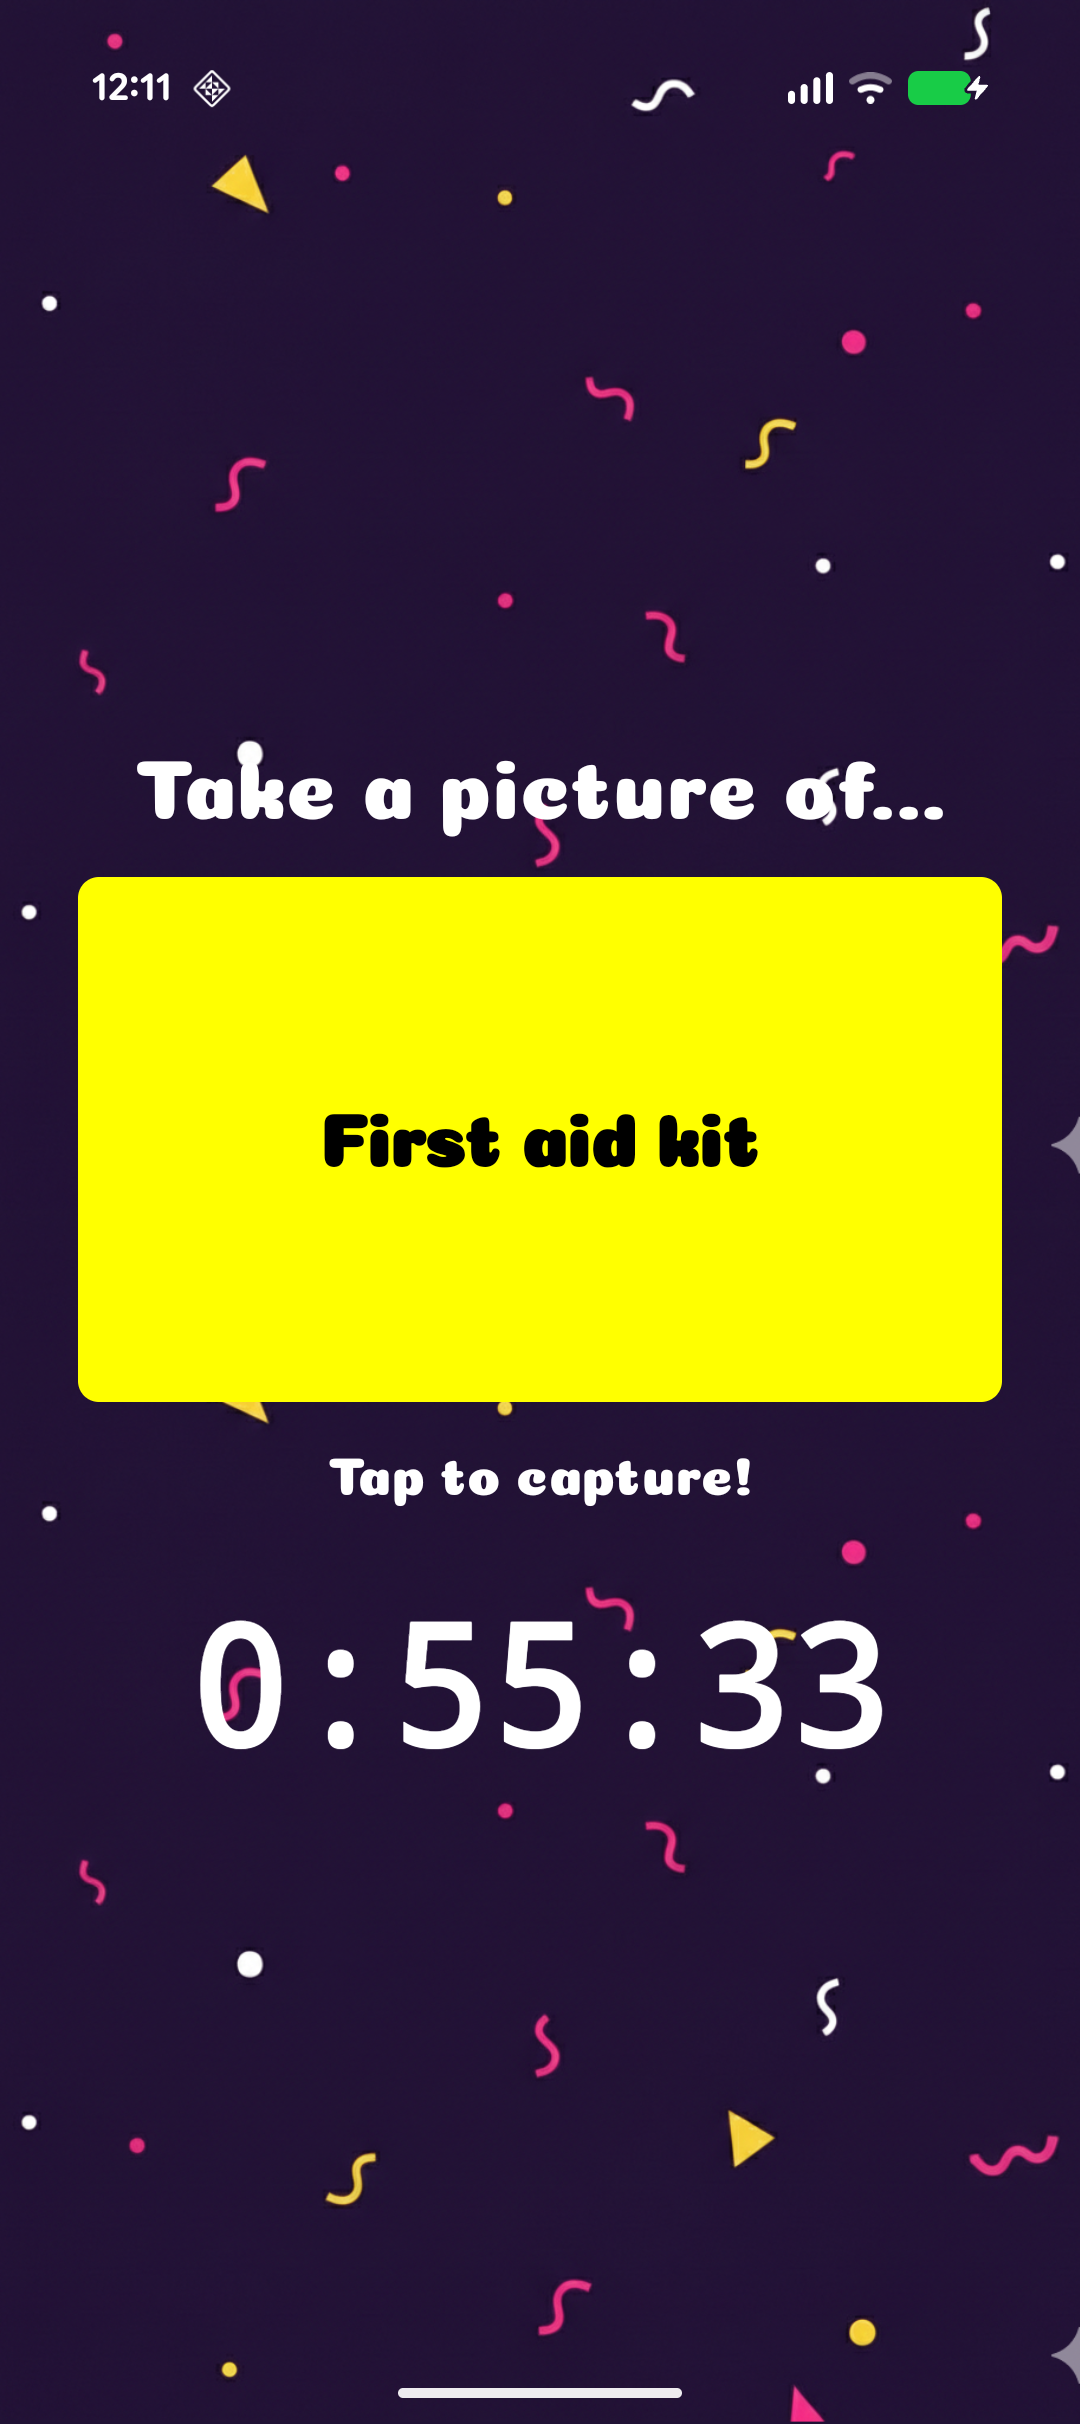
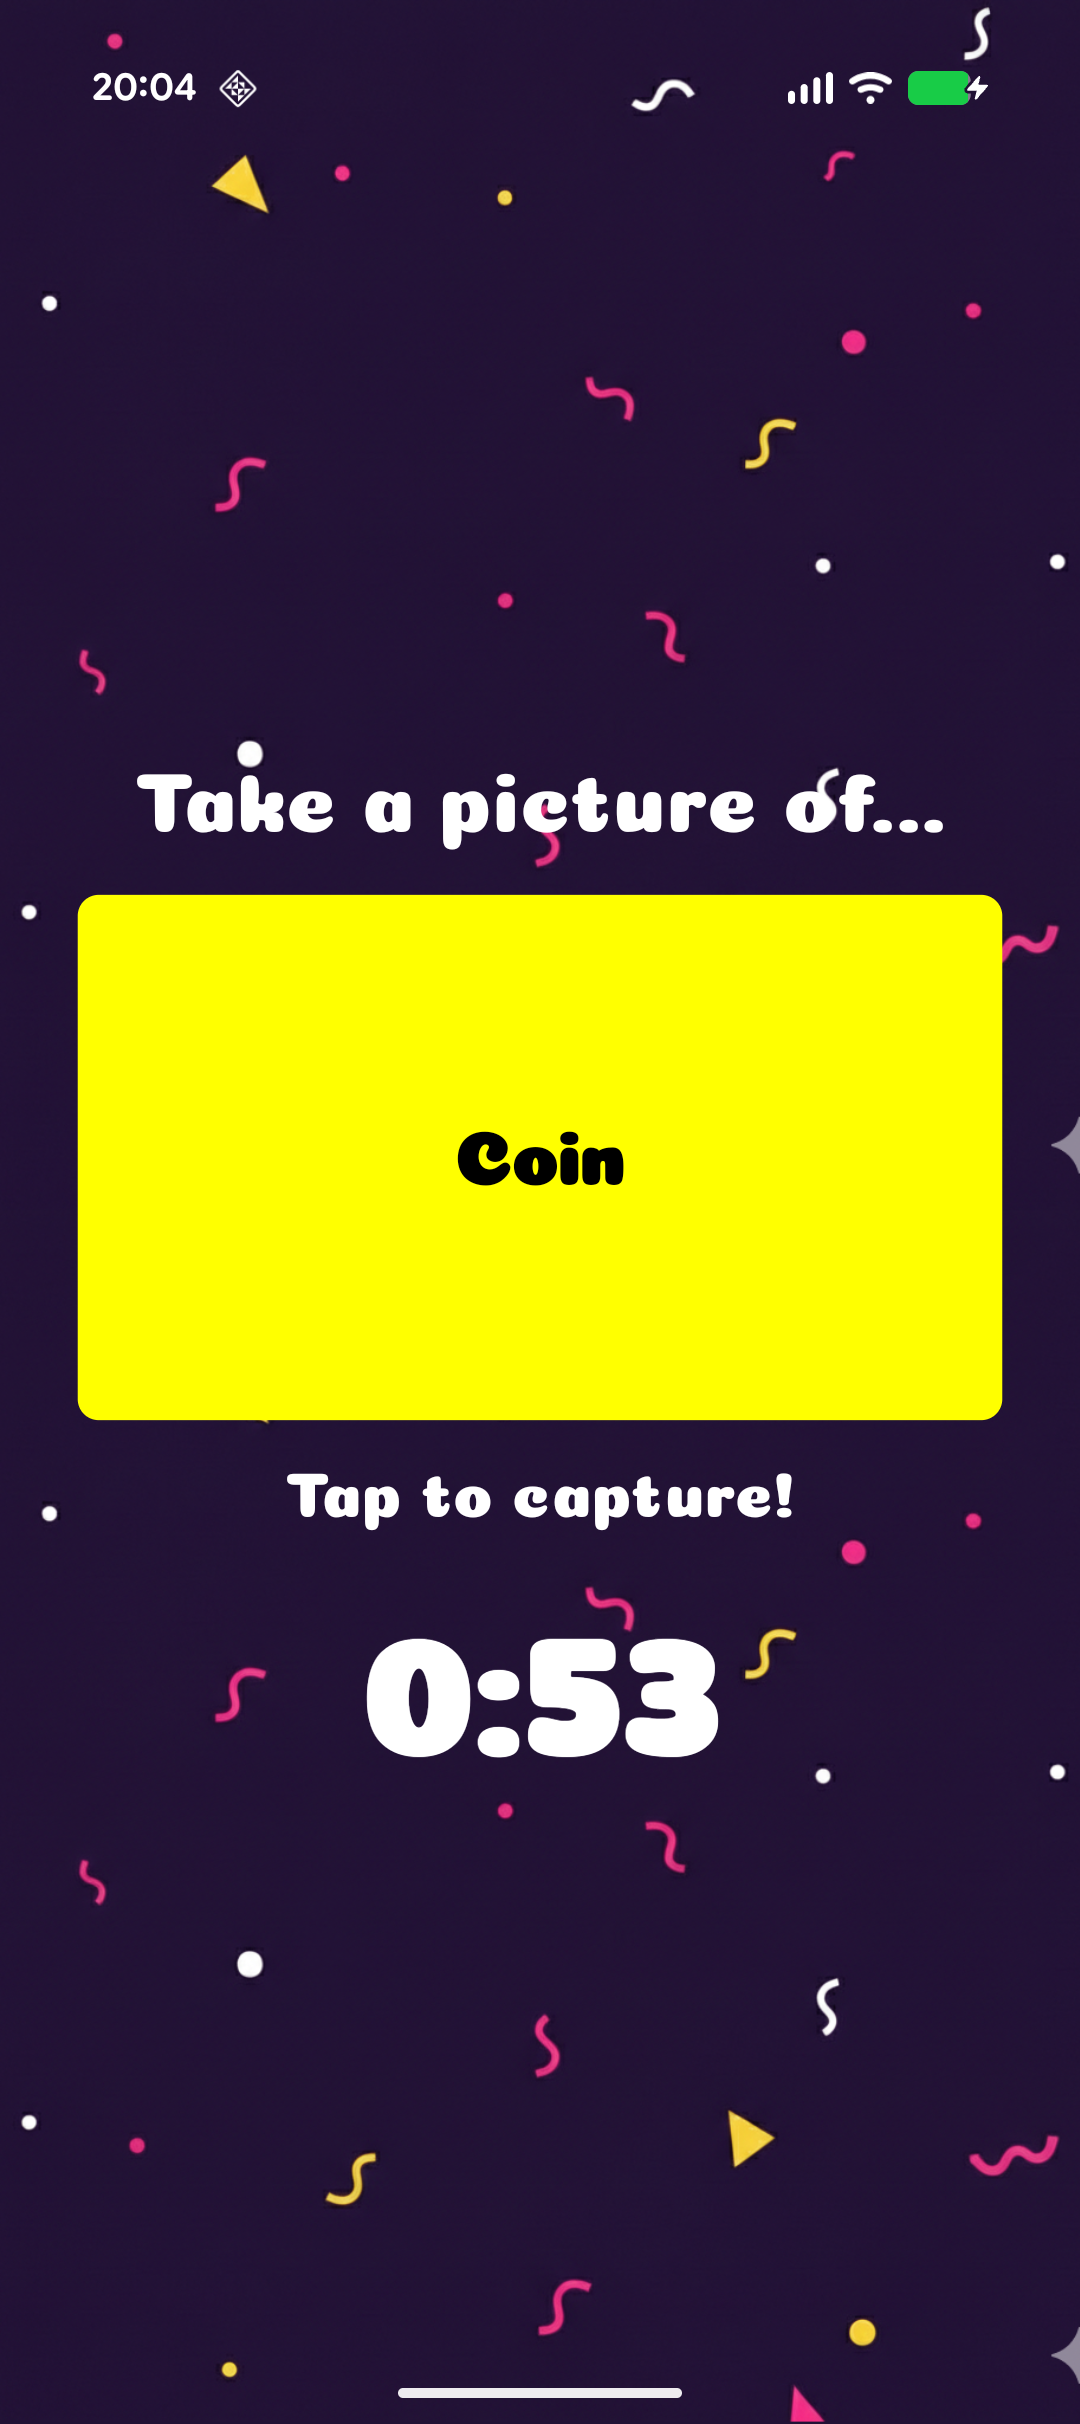
Add animations

diff --git a/composeApp/src/commonMain/kotlin/org/ak/cameragame/GameScreen.kt b/composeApp/src/commonMain/kotlin/org/ak/cameragame/GameScreen.kt
@@ -25,6 +25,7 @@ import androidx.compose.runtime.setValue
 import androidx.compose.ui.Alignment
 import androidx.compose.ui.Modifier
 import androidx.compose.ui.graphics.Color
+import androidx.compose.ui.graphics.graphicsLayer
 import androidx.compose.ui.text.font.FontWeight
 import androidx.compose.ui.unit.dp
 import androidx.compose.ui.unit.sp
@@ -43,6 +44,8 @@ fun GameScreen(
     apiKey: String
 ) {
 
+    val animation = rememberAnimations()
+
     var millisLeft by remember { mutableStateOf(60_000L) }
     var resultText by remember { mutableStateOf("") }
     var loading by remember { mutableStateOf(true) }
@@ -52,11 +55,12 @@ fun GameScreen(
     LaunchedEffect(key1 = Unit) {
         onPhotoCaptured(null)
 
+        // Should consider to make a list of words and then randomly select or let AI choose on.
         val seed = Clock.System.now().epochSeconds.toString();
         val agent = AIAgent(
             promptExecutor = simpleGoogleAIExecutor(apiKey),
             systemPrompt = "You are a creative game master for an office scavenger hunt. " +
-                    "First, brainstorm at least 200 possible items across tech gadgets, personal care items, safety equipment, kitchen tools, office supplies, and miscellaneous everyday objects. " +
+                    "First, brainstorm at least 50 possible items across tech gadgets, personal care items, safety equipment, kitchen tools, office supplies, and miscellaneous everyday objects. " +
                     "Then randomly select one item from your brainstormed list. " +
                     "Use the following random seed to influence your choice: $seed " +
                     "Return only a single common noun. No adjectives. No descriptions.",
@@ -92,12 +96,10 @@ fun GameScreen(
         )
     }
 
-    // 3. Logic to extract Minutes, Seconds, and 2-digit Milliseconds
     val minutes = (millisLeft / 60_000).toString()
     val seconds = ((millisLeft % 60_000) / 1000).toString().padStart(2, '0')
-    val milliseconds = ((millisLeft % 1000) / 10).toString().padStart(2, '0')
 
-    val timeText = "$minutes:$seconds:$milliseconds"
+    val timeText = "$minutes:$seconds"
 
     Column(
         modifier = Modifier
@@ -114,7 +116,11 @@ fun GameScreen(
             Text(
                 text = "Loading...",
                 color = Color.White,
-                fontSize = 20.sp
+                fontSize = 20.sp,
+                modifier = Modifier.graphicsLayer(
+                    scaleX = animation.scale,
+                    scaleY = animation.scale
+                )
             )
         } else {
             Text(
@@ -126,9 +132,13 @@ fun GameScreen(
             Spacer(modifier = Modifier.height(24.dp))
             Button(
                 onClick = { showCamera = true },
+
                 modifier = Modifier
                     .width(450.dp)  // Set a fixed width
-                    .height(200.dp), // Set a fixed height
+                    .height(200.dp).graphicsLayer(
+                        scaleX = animation.scale,
+                        scaleY = animation.scale
+                    ), // Set a fixed height
                 colors = ButtonDefaults.buttonColors(
                     containerColor = Color.Yellow,
                     contentColor = Color.Black
@@ -153,10 +163,7 @@ fun GameScreen(
                 text = timeText,
                 color = Color.White,
                 fontSize = 64.sp,
-                fontWeight = FontWeight.Black,
-                style = MaterialTheme.typography.displayLarge.copy(
-                    fontFamily = androidx.compose.ui.text.font.FontFamily.Monospace
-                )
+                fontWeight = FontWeight.Black
             )
         }
     }

diff --git a/composeApp/src/commonMain/kotlin/org/ak/cameragame/StartGameScreen.kt b/composeApp/src/commonMain/kotlin/org/ak/cameragame/StartGameScreen.kt
@@ -14,6 +14,7 @@ import androidx.compose.runtime.Composable
 import androidx.compose.ui.Alignment
 import androidx.compose.ui.Modifier
 import androidx.compose.ui.graphics.Color
+import androidx.compose.ui.graphics.graphicsLayer
 import androidx.compose.ui.text.font.FontWeight
 import androidx.compose.ui.unit.dp
 import androidx.compose.ui.unit.sp
@@ -23,6 +24,9 @@ import org.jetbrains.compose.resources.painterResource
 
 @Composable
 fun StartGameScreen(onStartClicked: () -> Unit) {
+
+    val animation = rememberAnimations()
+
     Column(
         modifier = Modifier
             .safeContentPadding()
@@ -31,31 +35,39 @@ fun StartGameScreen(onStartClicked: () -> Unit) {
     ) {
         Image(
             painter = painterResource(Res.drawable.logo2),
-            contentDescription = null
+            contentDescription = null,
+            modifier = Modifier.graphicsLayer(rotationZ = animation.rotation)
         )
-        Button(
-            onClick = { onStartClicked() },
-            // Set the container (background) and content (text/icon) colors here
-            colors = ButtonDefaults.buttonColors(
-                containerColor = Color.Yellow,
-                contentColor = Color.Black
-            ),
-            contentPadding = PaddingValues(horizontal = 64.dp, vertical = 24.dp)
+        Column(
+            horizontalAlignment = Alignment.CenterHorizontally,
+            modifier = Modifier.graphicsLayer(
+                scaleX = animation.scale,
+                scaleY = animation.scale
+            )
         ) {
+            Button(
+                onClick = { onStartClicked() },
+                colors = ButtonDefaults.buttonColors(
+                    containerColor = Color.Yellow,
+                    contentColor = Color.Black
+                ),
+                contentPadding = PaddingValues(horizontal = 64.dp, vertical = 24.dp)
+            ) {
+                Text(
+                    text = "PLAY!",
+                    fontSize = 44.sp,
+                    fontWeight = FontWeight.Bold
+                )
+            }
+
+            Spacer(modifier = Modifier.height(16.dp))
+
             Text(
-                text = "PLAY!",
-                fontSize = 44.sp,
-                fontWeight = FontWeight.Bold
+                text = "Get ready to move!",
+                color = Color.White,
+                fontSize = 20.sp,
+                fontWeight = FontWeight.Medium,
             )
         }
-
-        Spacer(modifier = Modifier.height(16.dp))
-
-        Text(
-            text = "Get ready to move!",
-            color = Color.White,       // Sets the text color to white
-            fontSize = 20.sp,          // Makes it bigger (import androidx.compose.ui.unit.sp)
-            fontWeight = FontWeight.Medium // Optional: adds a bit of weight so it's readable
-        )
     }
 }

diff --git a/composeApp/src/commonMain/kotlin/org/ak/cameragame/EndScreen.kt b/composeApp/src/commonMain/kotlin/org/ak/cameragame/EndScreen.kt
@@ -22,6 +22,8 @@ import androidx.compose.runtime.setValue
 import androidx.compose.ui.Alignment
 import androidx.compose.ui.Modifier
 import androidx.compose.ui.graphics.Color
+import androidx.compose.ui.graphics.graphicsLayer
+import androidx.compose.ui.text.font.FontWeight
 import androidx.compose.ui.unit.dp
 import androidx.compose.ui.unit.sp
 import cameragame.composeapp.generated.resources.Res
@@ -39,6 +41,8 @@ fun EndScreen(
     nextGameState: () -> Unit,
     apiKey: String
 ) {
+
+    val animation = rememberAnimations()
 
     val executor = simpleGoogleAIExecutor(apiKey)
 
@@ -73,14 +77,15 @@ fun EndScreen(
 
     LaunchedEffect(loading) {
         if (!loading) {
-            delay(3000) // Wait 5 seconds
+            delay(3500)
             nextGameState()
         }
     }
 
     val color =
-        if (loading) Color.DarkGray else if (winner) Color(0xFF1DC44A) else Color(0xFFC4311D)
+        if (loading) Color.Transparent else if (winner) Color(0xFF1DC44A) else Color(0xFFC4311D)
     val image = if (winner) Res.drawable.win else Res.drawable.lose
+    val text = if (winner) "Success!" else "Failed!"
 
     Column(
         modifier = Modifier
@@ -94,11 +99,29 @@ fun EndScreen(
             // Standard Material Spinner
             CircularProgressIndicator(color = Color.White)
             Spacer(modifier = Modifier.height(16.dp))
-            Text("Analyzing...", color = Color.White, fontSize = 20.sp)
+            Text(
+                "Just a sec...",
+                color = Color.White,
+                fontSize = 20.sp,
+                modifier = Modifier.graphicsLayer(
+                    scaleX = animation.scale,
+                    scaleY = animation.scale
+                )
+            )
         } else {
             Image(
                 painter = painterResource(image),
                 contentDescription = null
+            )
+            Text(
+                text = text,
+                color = Color.White,
+                fontSize = 28.sp,
+                fontWeight = FontWeight.Medium,
+                modifier = Modifier.graphicsLayer(
+                    scaleX = animation.scale,
+                    scaleY = animation.scale
+                )
             )
         }
     }

diff --git a/composeApp/src/commonMain/kotlin/org/ak/cameragame/Animations.kt b/composeApp/src/commonMain/kotlin/org/ak/cameragame/Animations.kt
@@ -1,0 +1,45 @@
+package org.ak.cameragame
+
+import androidx.compose.animation.core.FastOutSlowInEasing
+import androidx.compose.animation.core.LinearOutSlowInEasing
+import androidx.compose.animation.core.RepeatMode
+import androidx.compose.animation.core.animateFloat
+import androidx.compose.animation.core.infiniteRepeatable
+import androidx.compose.animation.core.rememberInfiniteTransition
+import androidx.compose.animation.core.tween
+import androidx.compose.runtime.Composable
+import androidx.compose.runtime.getValue
+
+
+data class AnimState(
+    val scale: Float,
+    val rotation: Float,
+    val translationY: Float
+)
+
+@Composable
+fun rememberAnimations(): AnimState {
+    val transition = rememberInfiniteTransition(label = "juice_transition")
+
+    val scale by transition.animateFloat(
+        initialValue = 1f,
+        targetValue = 1.025f,
+        animationSpec = infiniteRepeatable(
+            animation = tween(1500, easing = FastOutSlowInEasing),
+            repeatMode = RepeatMode.Reverse
+        ),
+        label = "scale"
+    )
+
+    val rotation by transition.animateFloat(
+        initialValue = -2f,
+        targetValue = 2f,
+        animationSpec = infiniteRepeatable(
+            animation = tween(2000, easing = LinearOutSlowInEasing),
+            repeatMode = RepeatMode.Reverse
+        ),
+        label = "rotation"
+    )
+
+    return AnimState(scale = scale, rotation = rotation, translationY = 0f)
+}
